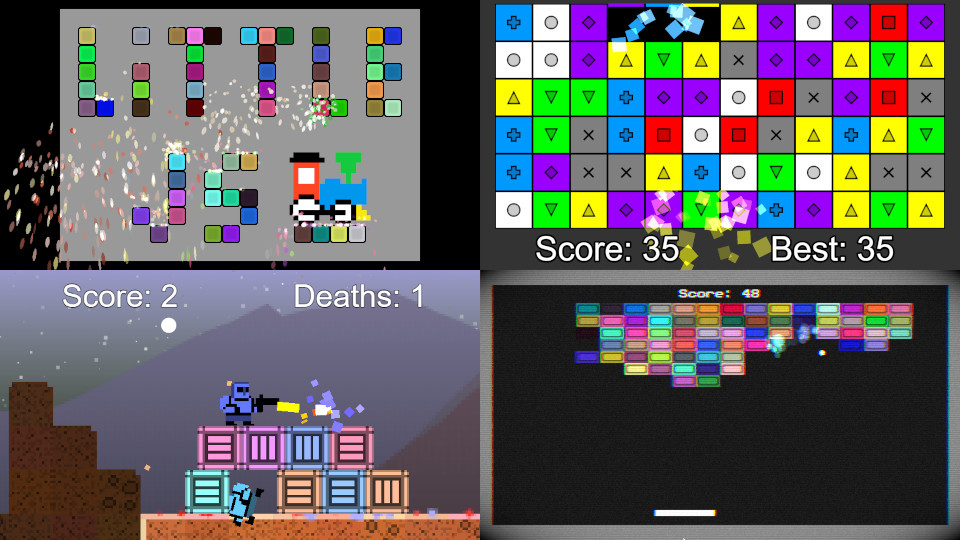
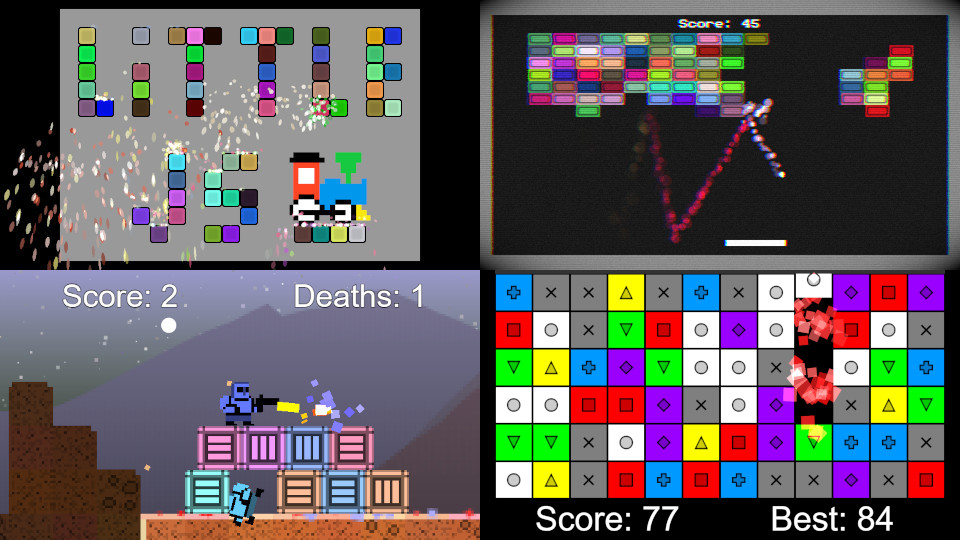
trail effects on breakout ball

diff --git a/examples/breakout/gameObjects.js b/examples/breakout/gameObjects.js
@@ -67,10 +67,15 @@ class Brick extends EngineObject
             0, vec2(16),                          // tileIndex, tileSize
             color1, color2,                       // colorStartA, colorStartB
             color1.scale(1,0), color2.scale(1,0), // colorEndA, colorEndB
-            .1, .3, 1, .05, .05,// time, sizeStart, sizeEnd, speed, angleSpeed
+            .5, .3, 1, .02, .05,// time, sizeStart, sizeEnd, speed, angleSpeed
             .99, .95, .4, PI,   // damping, angleDamping, gravityScale, cone
-            .1, .5, 0, 1        // fadeRate, randomness, collide, additive
+            .1, .8, 0, 1        // fadeRate, randomness, collide, additive
         );
+
+        // set ball trail color
+        if (o.trailEffect)
+            o.trailEffect.colorStartA = 
+            o.trailEffect.colorStartB = this.color.scale(.8);
         
         return 1;
     }
@@ -87,6 +92,20 @@ class Ball extends EngineObject
         this.setCollision();
         this.velocity = vec2(randSign(), -1).scale(.1);
         this.elasticity = 1;
+        
+        // attach a trail effect
+        const color = hsl(0,0,.2);
+        this.trailEffect = new ParticleEmitter(
+            this.pos, 0,                          // emitPos, emitAngle
+            this.size, 0, 80, PI,                 // emitSize, emitTime, emitRate, emiteCone
+            0, vec2(16),                          // tileIndex, tileSize
+            color, color,                         // colorStartA, colorStartB
+            color.scale(0), color.scale(0),       // colorEndA, colorEndB
+            2, .4, 1, .001, .05,// time, sizeStart, sizeEnd, speed, angleSpeed
+            .99, .95, 0, PI,    // damping, angleDamping, gravityScale, cone
+            .1, .5, 0, 1        // fadeRate, randomness, collide, additive
+        );
+        this.addChild(this.trailEffect);
     }
 
     update()
